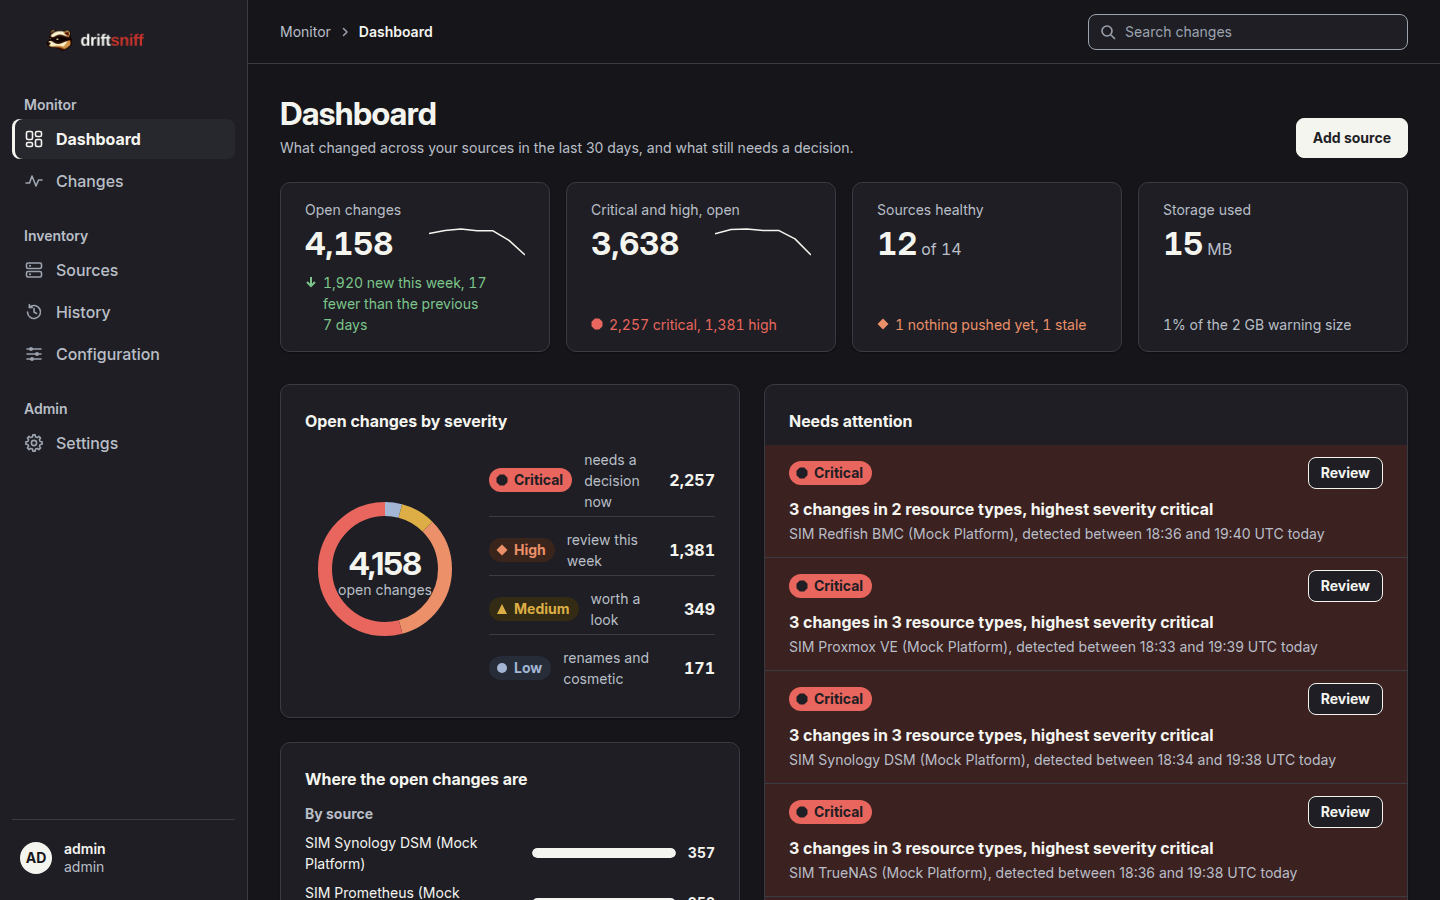
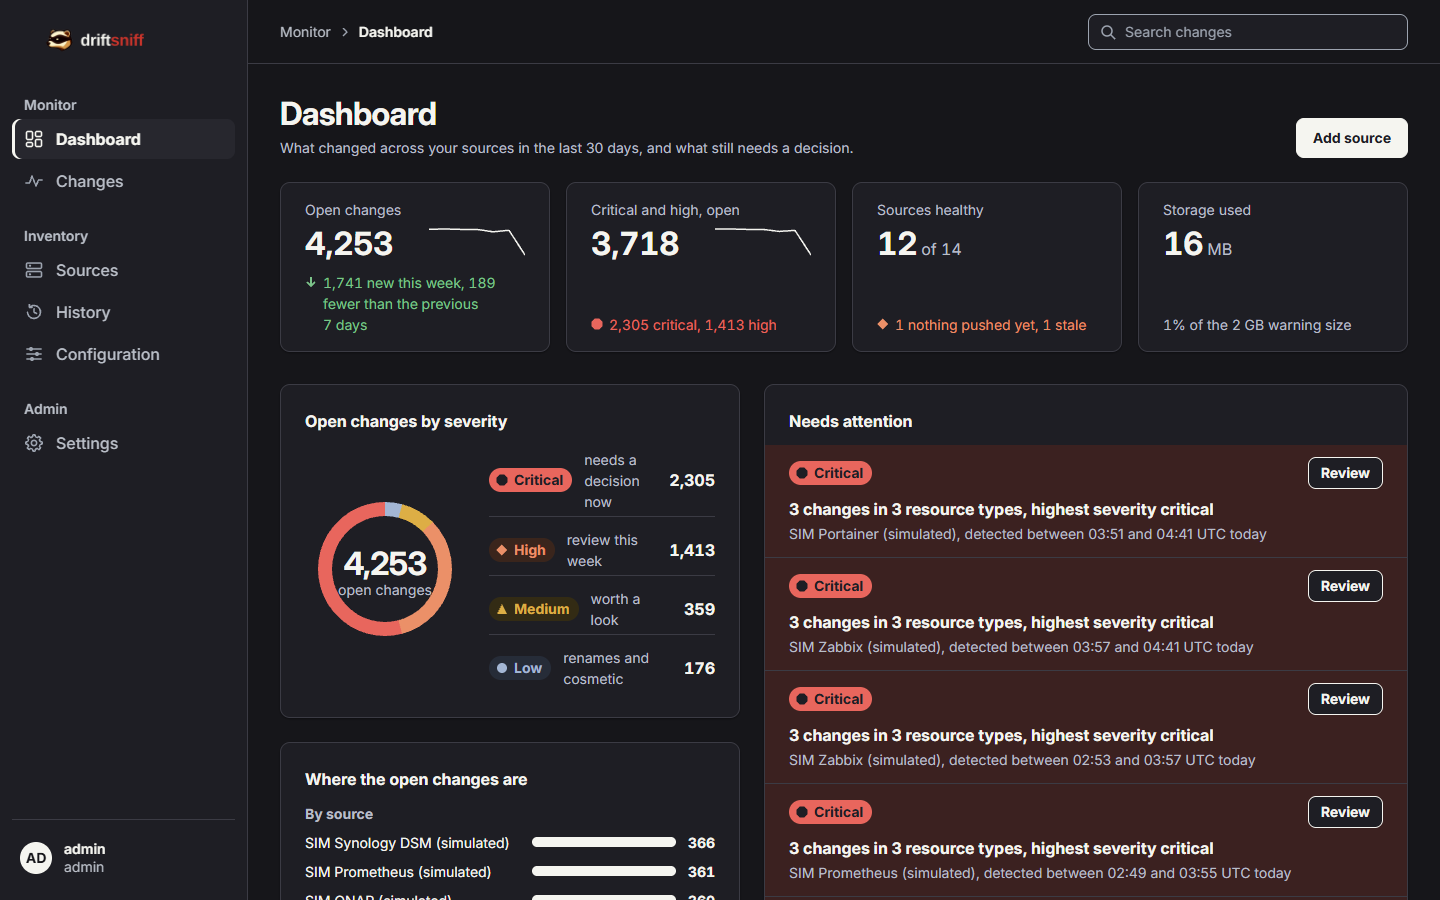
Fit the Changes table at tablet width; retake ten pictures
At 768 px the Changes table was 732 px in a 702 px card and scrolled
inside it, cutting the Acknowledged badge. Between 480 and 1023 px the
table cells are tighter and the Change column wraps (minimum 150 px),
so the table fits; phone and desktop widths are unchanged.

Ten pictures showed an internal suffix in the simulated source names.
The Development sources are renamed (simulated) and the pictures are
retaken at the same sizes, roles and themes: dashboard (1440, dark,
full page, operator, 768, 768 dark), changes, sources (1440, 768 for a
viewer) and the full source page, whose Address value stays covered by
a solid black box.

diff --git a/src/driftsniff/web/static/app.css b/src/driftsniff/web/static/app.css
@@ -2112,6 +2112,19 @@ textarea.input {
   .data-table .col-hide-m {
     display: none;
   }
+
+  /* tablet width: tighter cells and a wrapping Change column, so the table fits its card
+     (at 768 px an "Acknowledged" status badge was cut at the right edge) */
+  .data-table th,
+  .data-table td {
+    padding-left: var(--sp-3);
+    padding-right: var(--sp-3);
+  }
+
+  .data-table .primary-cell {
+    min-width: 150px;
+    overflow-wrap: anywhere;
+  }
 }
 
 @media (max-width: 479px) {
